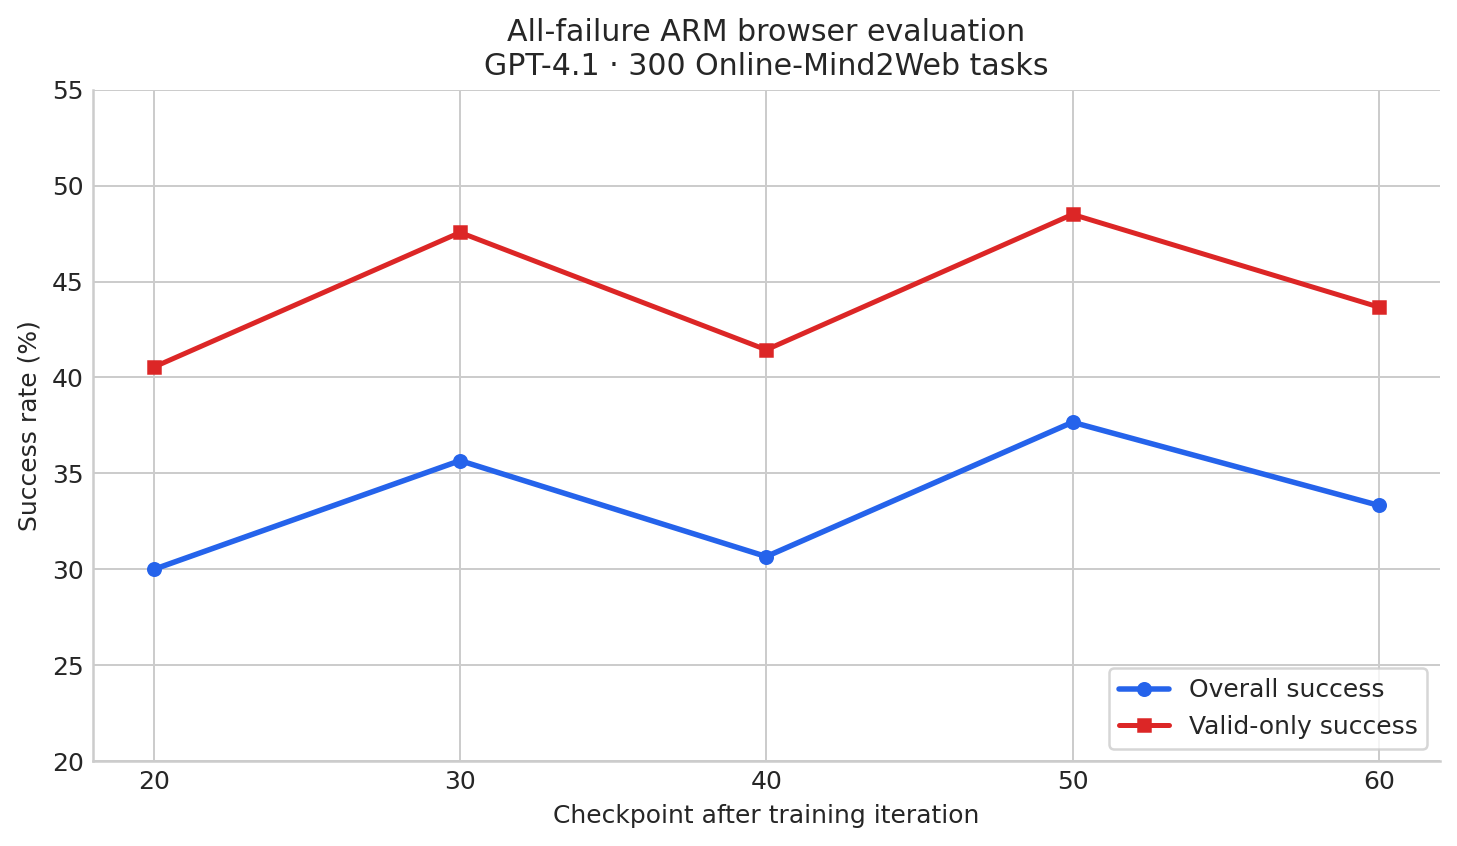
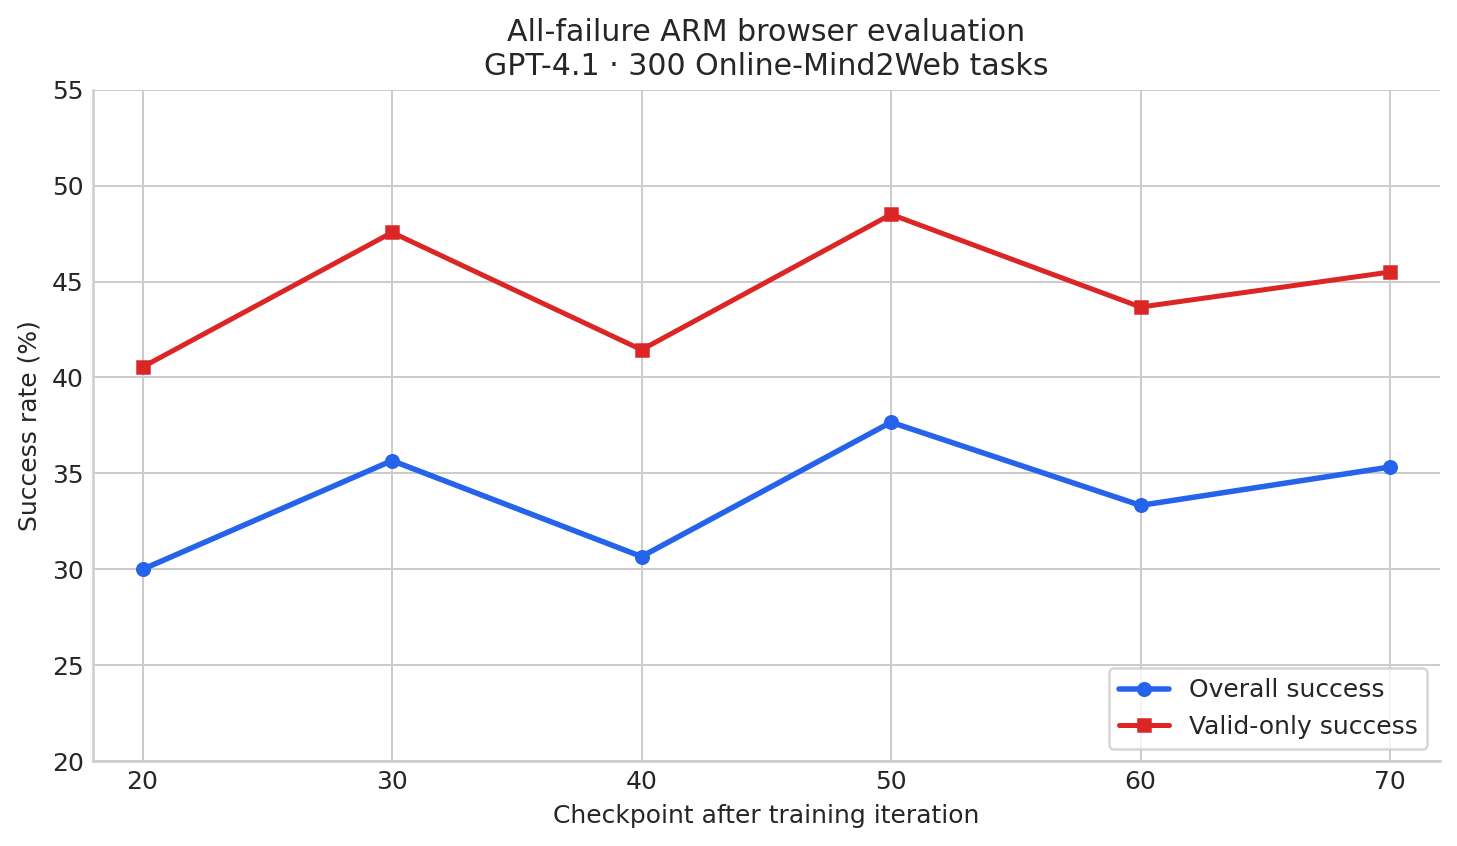
Update ARM summary through iteration 70

diff --git a/scripts/plot_baseline_vs_arm_allfailure.py b/scripts/plot_baseline_vs_arm_allfailure.py
@@ -10,9 +10,15 @@ baseline_v=[232,248,231,234,230,229,229,222]
 arm_i=[20,30,40,50,60]
 arm_s=[90,107,92,113,100]
 arm_v=[222,225,222,233,229]
+arm_i += [70]
+arm_s += [106]
+arm_v += [233]
 add_i=[30,40,50,60]
 add_s=[103,102,98,90]
 add_v=[219,218,212,215]
+original_i=[50,70]
+original_s=[102,103]
+original_v=[223,231]
 repo=Path(__file__).resolve().parents[1]
 out=repo/'openwebrl/docs/rl_results/baseline_vs_arm_allfailure_full300.png'
 plt.style.use('seaborn-v0_8-whitegrid')
@@ -23,6 +29,8 @@ ax.plot(arm_i,[100*x/300 for x in arm_s],marker='o',lw=2.2,ls='--',color='#dc262
 ax.plot(arm_i,[100*x/y for x,y in zip(arm_s,arm_v)],marker='s',lw=2.0,ls='--',color='#f97316',label='All-failure ARM · valid-only')
 ax.plot(add_i,[100*x/300 for x in add_s],marker='o',lw=2.2,ls=':',color='#16a34a',label='Additive ARM · overall')
 ax.plot(add_i,[100*x/y for x,y in zip(add_s,add_v)],marker='s',lw=2.0,ls=':',color='#84cc16',label='Additive ARM · valid-only')
+ax.plot(original_i,[100*x/300 for x in original_s],marker='o',lw=2.2,ls='-.',color='#7c3aed',label='Original ARM · overall')
+ax.plot(original_i,[100*x/y for x,y in zip(original_s,original_v)],marker='s',lw=2.0,ls='-.',color='#c084fc',label='Original ARM · valid-only')
 ax.set_xlabel('Checkpoint after training iteration'); ax.set_ylabel('Success rate (%)')
 ax.set_title('Outcome-only baseline vs all-failure ARM\nGPT-4.1 · 300 Online-Mind2Web tasks')
 ax.set_xlim(18,92); ax.set_ylim(20,55); ax.set_xticks([20,30,40,50,60,70,80,90])

diff --git a/scripts/plot_arm_allfailure.py b/scripts/plot_arm_allfailure.py
@@ -2,9 +2,9 @@ from pathlib import Path
 import matplotlib
 matplotlib.use('Agg')
 import matplotlib.pyplot as plt
-iterations=[20,30,40,50,60]
-successes=[90,107,92,113,100]
-valid=[222,225,222,233,229]
+iterations=[20,30,40,50,60,70]
+successes=[90,107,92,113,100,106]
+valid=[222,225,222,233,229,233]
 overall=[100*s/300 for s in successes]
 valid_only=[100*s/v for s,v in zip(successes,valid)]
 repo=Path('/gpfs/projects/krishna/zixianma/OpenWebRL')
@@ -16,6 +16,6 @@ ax.plot(iterations,valid_only,marker='s',linewidth=2.0,markersize=4.5,color='#dc
 ax.set_xlabel('Checkpoint after training iteration')
 ax.set_ylabel('Success rate (%)')
 ax.set_title('All-failure ARM browser evaluation\nGPT-4.1 · 300 Online-Mind2Web tasks')
-ax.set_ylim(20,55); ax.set_xlim(18,62); ax.set_xticks([20,30,40,50,60])
+ax.set_ylim(20,55); ax.set_xlim(18,72); ax.set_xticks([20,30,40,50,60,70])
 ax.legend(frameon=True,loc='lower right'); ax.spines['top'].set_visible(False); ax.spines['right'].set_visible(False)
 fig.tight_layout(); fig.savefig(out,bbox_inches='tight'); print(out)

diff --git a/openwebrl/docs/ARM_SUMMARY.md b/openwebrl/docs/ARM_SUMMARY.md
@@ -128,11 +128,14 @@ candidates.
 | **Original bonus** | 20 | 26.0% / 35.62% | — |
 |  | 30 | 27.0% / 36.49% | — |
 |  | 40 | **31.00% / 44.93%** | — |
+|  | 50 | — | 34.00% / 45.74% |
+|  | 70 | — | 34.33% / 44.59% |
 | **All-failure bonus** | 20 | 28.0% / 40.00% | 30.00% / 40.54% |
 |  | 30 | 36.0% / 49.32% | 35.67% / 47.56% |
 |  | 40 | 28.0% / 39.44% | 30.67% / 41.44% |
 |  | 50 | — | 37.67% / 48.50% |
 |  | 60 | — | 33.33% / 43.67% |
+|  | 70 | — | 35.33% / 45.49% |
 | **Additive bonus** | 20 | 24.0% / 31.17% | — |
 |  | 30 | 30.0% / 44.12% | 34.33% / 47.03% |
 |  | 40 | 30.0% / 44.12% | 34.00% / 46.79% |
@@ -152,9 +155,10 @@ points are full-300 evaluations under the same local-browser/GPT-4.1 protocol.
 ![Outcome-only baseline versus all-failure ARM](rl_results/baseline_vs_arm_allfailure_full300.png)
 
 This comparison overlays the historical outcome-only baseline curve with the
-all-failure and additive ARM full-300 points. Additive ARM has no full-300
-iteration-20 point in the archived evaluation series, so its curve begins at
-iteration 30.
+original, all-failure, and additive ARM full-300 points. Additive ARM has no
+full-300 iteration-20 point in the archived evaluation series, so its curve
+begins at iteration 30. Original ARM begins at iteration 50 because earlier
+full-300 checkpoints were not evaluated.
 
 The earlier significance calculation was an exploratory unpaired proportion
 test over aggregate counts. It is hidden from this summary because the archived
